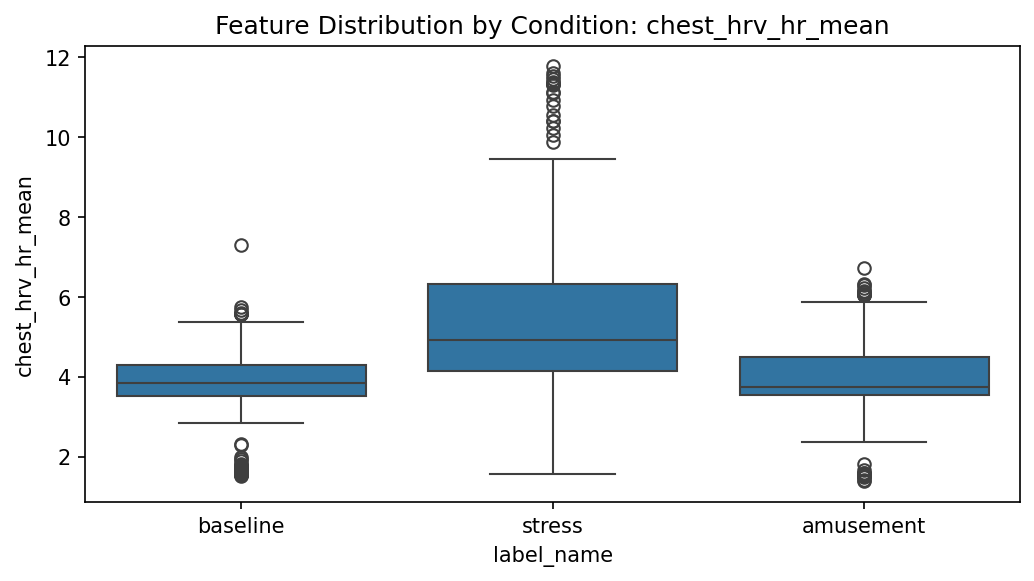
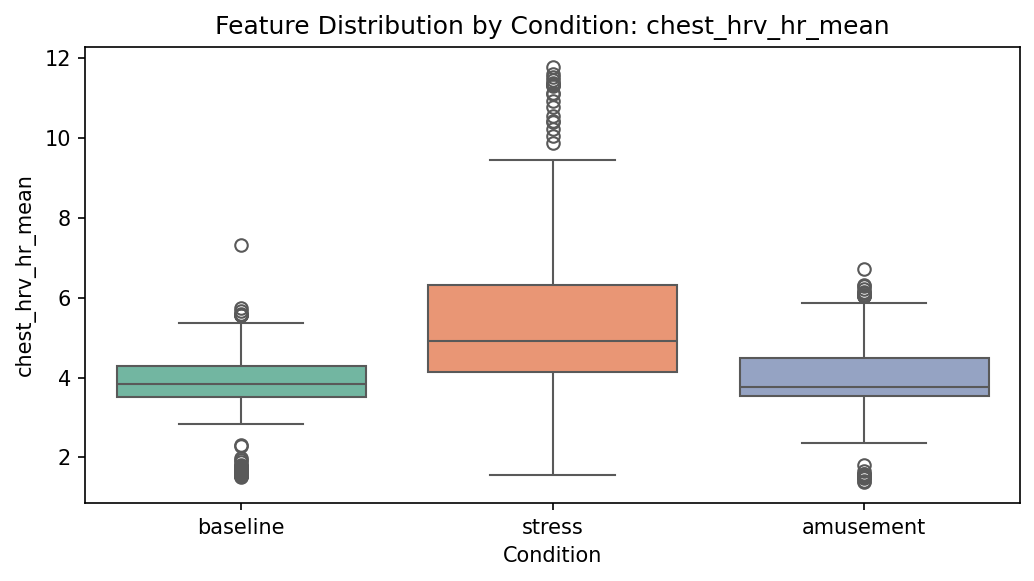
Add preprocessing and LOSO evaluation figures
Generate signal preprocessing examples, multi-feature distribution grid, per-subject LOSO performance, and model comparison plots. Update README figure references.

diff --git a/src/wesad_arousal/visualization.py b/src/wesad_arousal/visualization.py
@@ -2,6 +2,7 @@
 
 from __future__ import annotations
 
+import json
 from pathlib import Path
 
 import matplotlib.pyplot as plt
@@ -9,12 +10,80 @@ import numpy as np
 import pandas as pd
 import seaborn as sns
 
+from wesad_arousal.data import load_subject_interim
+from wesad_arousal.labels import label_config
+from wesad_arousal.preprocessing import bandpass_filter, lowpass_filter
+
 
 def _save(fig, path: Path) -> None:
     path.parent.mkdir(parents=True, exist_ok=True)
     fig.tight_layout()
     fig.savefig(path, dpi=150, bbox_inches="tight")
     plt.close(fig)
+
+
+def _signal_values(frame: pd.DataFrame) -> np.ndarray:
+    if "value" in frame.columns:
+        return frame["value"].to_numpy(dtype=float)
+    return frame.iloc[:, 0].to_numpy(dtype=float)
+
+
+def _find_stress_segment(labels: np.ndarray, cfg: dict, duration_s: float = 30.0) -> tuple[int, int]:
+    lc = label_config(cfg)
+    stress_code = lc["stress"]
+    fs = cfg["sampling_rates"]["label"]
+    n = int(duration_s * fs)
+    idx = np.where(labels == stress_code)[0]
+    if idx.size < n:
+        start = max(0, len(labels) - n)
+        return start, min(len(labels), start + n)
+    start = int(idx[len(idx) // 2]) - n // 2
+    start = max(0, start)
+    return start, min(len(labels), start + n)
+
+
+def plot_signal_preprocessing_examples(cfg: dict, out_path: Path, subject_id: str = "S2") -> None:
+    interim_dir = Path(cfg["paths"]["interim_dir"])
+    subject_dir = interim_dir / subject_id
+    if not subject_dir.exists():
+        subjects = sorted([p.name for p in interim_dir.iterdir() if p.is_dir() and p.name.startswith("S")])
+        if not subjects:
+            return
+        subject_id = subjects[0]
+        subject_dir = interim_dir / subject_id
+
+    frames = load_subject_interim(interim_dir, subject_id)
+    labels = np.asarray(frames["labels"])
+    start, end = _find_stress_segment(labels, cfg)
+    fs_chest = cfg["sampling_rates"]["chest"]
+    t = np.arange(end - start) / fs_chest
+
+    ecg = _signal_values(frames["chest_ECG"])[start:end]
+    eda = _signal_values(frames["chest_EDA"])[start:end]
+    resp = _signal_values(frames["chest_Resp"])[start:end]
+    ecg_f = bandpass_filter(ecg, fs_chest, 0.5, 40.0)
+    eda_f = lowpass_filter(eda, fs_chest, 1.0)
+    resp_f = lowpass_filter(resp, fs_chest, 0.5)
+
+    fig, axes = plt.subplots(3, 1, figsize=(10, 7), sharex=True)
+    axes[0].plot(t, ecg, color="#B0BEC5", linewidth=0.8, label="raw")
+    axes[0].plot(t, ecg_f, color="#E45756", linewidth=1.0, label="bandpass 0.5–40 Hz")
+    axes[0].set_ylabel("ECG")
+    axes[0].legend(loc="upper right", fontsize=8)
+    axes[0].set_title(f"Wearable Signal Preprocessing ({subject_id}, stress segment)")
+
+    axes[1].plot(t, eda, color="#B0BEC5", linewidth=0.8, label="raw")
+    axes[1].plot(t, eda_f, color="#4C78A8", linewidth=1.0, label="lowpass 1 Hz")
+    axes[1].set_ylabel("EDA")
+    axes[1].legend(loc="upper right", fontsize=8)
+
+    axes[2].plot(t, resp, color="#B0BEC5", linewidth=0.8, label="raw")
+    axes[2].plot(t, resp_f, color="#72B7B2", linewidth=1.0, label="lowpass 0.5 Hz")
+    axes[2].set_ylabel("Respiration")
+    axes[2].set_xlabel("Time (s)")
+    axes[2].legend(loc="upper right", fontsize=8)
+
+    _save(fig, out_path)
 
 
 def plot_pipeline_diagram(out_path: Path) -> None:
@@ -55,13 +124,46 @@ def plot_qc_heatmap(qc_df: pd.DataFrame, out_path: Path) -> None:
 
 
 def plot_feature_distributions(features_df: pd.DataFrame, out_path: Path) -> None:
-    candidates = [col for col in features_df.columns if col.startswith(("chest_eda", "chest_hrv", "wrist_eda"))]
+    candidates = [
+        col
+        for col in features_df.columns
+        if col.startswith(("chest_hrv_hr_mean", "chest_eda_mean", "wrist_eda_mean", "chest_resp_rate_mean"))
+    ]
+    if not candidates:
+        candidates = [col for col in features_df.columns if col.startswith(("chest_eda", "chest_hrv", "wrist_eda"))]
     if not candidates:
         return
     col = candidates[0]
     fig, ax = plt.subplots(figsize=(7, 4))
-    sns.boxplot(data=features_df, x="label_name", y=col, ax=ax)
+    sns.boxplot(data=features_df, x="label_name", y=col, hue="label_name", ax=ax, palette="Set2", legend=False)
     ax.set_title(f"Feature Distribution by Condition: {col}")
+    ax.set_xlabel("Condition")
+    _save(fig, out_path)
+
+
+def plot_feature_distributions_grid(features_df: pd.DataFrame, out_path: Path) -> None:
+    candidates = [
+        "chest_hrv_hr_mean",
+        "chest_eda_phasic_mean",
+        "chest_resp_rate_mean",
+        "wrist_bvp_pulse_rate",
+        "wrist_motion_vm_mean",
+        "chest_temp_mean",
+    ]
+    cols = [c for c in candidates if c in features_df.columns]
+    if not cols:
+        return
+
+    n = len(cols)
+    fig, axes = plt.subplots(2, 3, figsize=(11, 6))
+    axes_flat = axes.flatten()
+    for ax, col in zip(axes_flat, cols):
+        sns.boxplot(data=features_df, x="label_name", y=col, hue="label_name", ax=ax, palette="Set2", legend=False)
+        ax.set_title(col.replace("_", " "), fontsize=9)
+        ax.tick_params(axis="x", rotation=20)
+    for ax in axes_flat[len(cols):]:
+        ax.axis("off")
+    fig.suptitle("Feature Distributions by Condition (LOSO windows)", y=1.02)
     _save(fig, out_path)
 
 
@@ -86,5 +188,55 @@ def plot_feature_importance(importance_df: pd.DataFrame, out_path: Path, top_n: 
     top = importance_df.head(top_n)
     fig, ax = plt.subplots(figsize=(7, 5))
     sns.barplot(data=top, y="feature", x="importance", ax=ax, color="#72B7B2")
-    ax.set_title("Top Feature Importances")
+    ax.set_title("Top Feature Importances (LOSO-trained model)")
     _save(fig, out_path)
+
+
+def plot_loso_per_subject(metrics: dict, model_name: str, out_path: Path) -> None:
+    payload = metrics.get("models", {}).get(model_name)
+    if not payload or "per_subject" not in payload:
+        return
+    df = pd.DataFrame(payload["per_subject"])
+    fig, ax = plt.subplots(figsize=(9, 4))
+    sns.barplot(data=df, x="held_out_subject", y="balanced_accuracy", ax=ax, color="#4C78A8")
+    mean_acc = payload["balanced_accuracy_mean"]
+    ax.axhline(mean_acc, color="#E45756", linestyle="--", linewidth=1.2, label=f"mean = {mean_acc:.2f}")
+    ax.set_ylim(0, 1.05)
+    ax.set_title(f"Subject-Independent Evaluation (LOSO) — {model_name}")
+    ax.set_xlabel("Held-out subject")
+    ax.set_ylabel("Balanced accuracy")
+    ax.legend()
+    _save(fig, out_path)
+
+
+def plot_model_comparison(metrics: dict, out_path: Path) -> None:
+    rows = []
+    for name, payload in metrics.get("models", {}).items():
+        rows.append(
+            {
+                "model": name,
+                "balanced_accuracy": payload["balanced_accuracy_mean"],
+                "macro_f1": payload["macro_f1_mean"],
+            }
+        )
+    if not rows:
+        return
+    df = pd.DataFrame(rows)
+    fig, ax = plt.subplots(figsize=(7, 4))
+    sns.barplot(data=df, x="model", y="balanced_accuracy", ax=ax, color="#4C78A8")
+    ax.set_ylim(0, 1.05)
+    ax.set_title(f"LOSO Model Comparison ({metrics.get('task', 'task')})")
+    ax.set_xlabel("Model")
+    ax.set_ylabel("Balanced accuracy")
+    _save(fig, out_path)
+
+
+def plot_metrics_from_json(metrics_path: Path, figures_dir: Path) -> None:
+    with metrics_path.open("r", encoding="utf-8") as handle:
+        metrics = json.load(handle)
+    best_model = max(
+        metrics["models"],
+        key=lambda name: metrics["models"][name]["balanced_accuracy_mean"],
+    )
+    plot_model_comparison(metrics, figures_dir / "loso_model_comparison.png")
+    plot_loso_per_subject(metrics, best_model, figures_dir / "loso_per_subject.png")

diff --git a/src/wesad_arousal/reporting.py b/src/wesad_arousal/reporting.py
@@ -12,9 +12,12 @@ from wesad_arousal.visualization import (
     plot_ablation,
     plot_confusion_matrix,
     plot_feature_distributions,
+    plot_feature_distributions_grid,
     plot_feature_importance,
+    plot_metrics_from_json,
     plot_pipeline_diagram,
     plot_qc_heatmap,
+    plot_signal_preprocessing_examples,
 )
 
 
@@ -58,6 +61,7 @@ def generate_full_report(cfg: dict) -> Path:
     processed_dir = Path(cfg["paths"]["processed_dir"])
 
     plot_pipeline_diagram(figures_dir / "pipeline_diagram.png")
+    plot_signal_preprocessing_examples(cfg, figures_dir / "signal_preprocessing_examples.png")
 
     qc_path = outputs_dir / "qc_metrics.csv"
     if qc_path.exists():
@@ -68,6 +72,11 @@ def generate_full_report(cfg: dict) -> Path:
     if features_path.exists():
         features_df = pd.read_parquet(features_path)
         plot_feature_distributions(features_df, figures_dir / "feature_distributions.png")
+        plot_feature_distributions_grid(features_df, figures_dir / "feature_distributions_grid.png")
+
+    default_metrics = outputs_dir / "metrics_default.json"
+    if default_metrics.exists():
+        plot_metrics_from_json(default_metrics, figures_dir)
 
     metrics_files = sorted(outputs_dir.glob("metrics_*.json"))
     if metrics_files:

diff --git a/README.md b/README.md
@@ -17,6 +17,12 @@ This pipeline targets mobile and decentralized phenotyping workflows relevant to
 
 ![Pipeline diagram](reports/figures/pipeline_diagram.png)
 
+### Signal preprocessing
+
+Raw vs filtered ECG, EDA, and respiration from a representative stress segment:
+
+![Signal preprocessing examples](reports/figures/signal_preprocessing_examples.png)
+
 ---
 
 ## Why This Matters for Sleep, Stress and Arousal Research
@@ -138,6 +144,7 @@ Sliding windows (default 60 s / 30 s step) produce one row per subject-window wi
 | EMG | RMS, MAD, spectral energy |
 
 ![Feature distributions](reports/figures/feature_distributions.png)
+![Feature distributions grid](reports/figures/feature_distributions_grid.png)
 
 ---
 
@@ -183,6 +190,8 @@ Leave-one-subject-out (LOSO) evaluation on 15 WESAD subjects, 1,194 windows (60 
 Removing **HRV** or **EDA** features causes the largest drop in balanced accuracy (~0.86 → ~0.67–0.69), suggesting autonomic cardiac and electrodermal markers are the most informative modalities in this pipeline.
 
 ![Confusion matrix](reports/figures/confusion_matrix.png)
+![LOSO model comparison](reports/figures/loso_model_comparison.png)
+![LOSO per-subject performance](reports/figures/loso_per_subject.png)
 ![Modality ablation](reports/figures/modality_ablation.png)
 ![Feature importance](reports/figures/feature_importance.png)
 